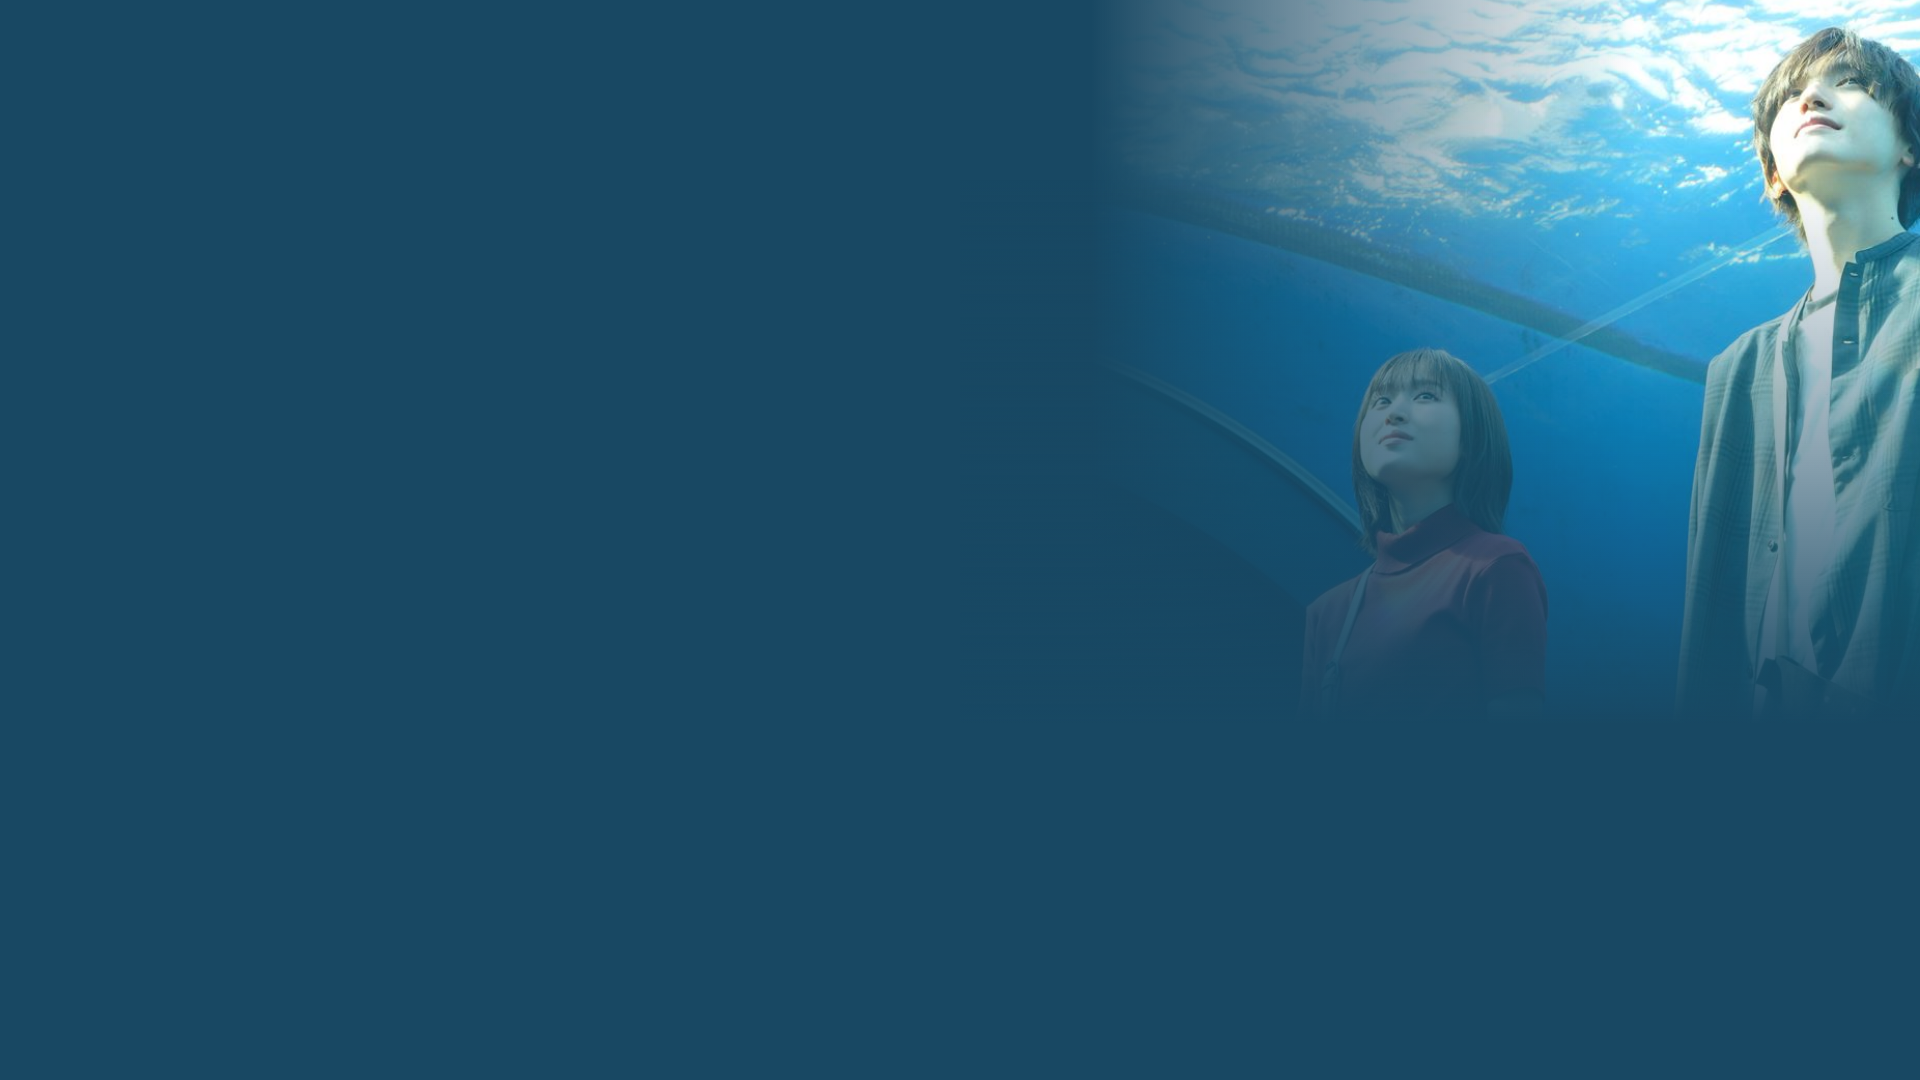
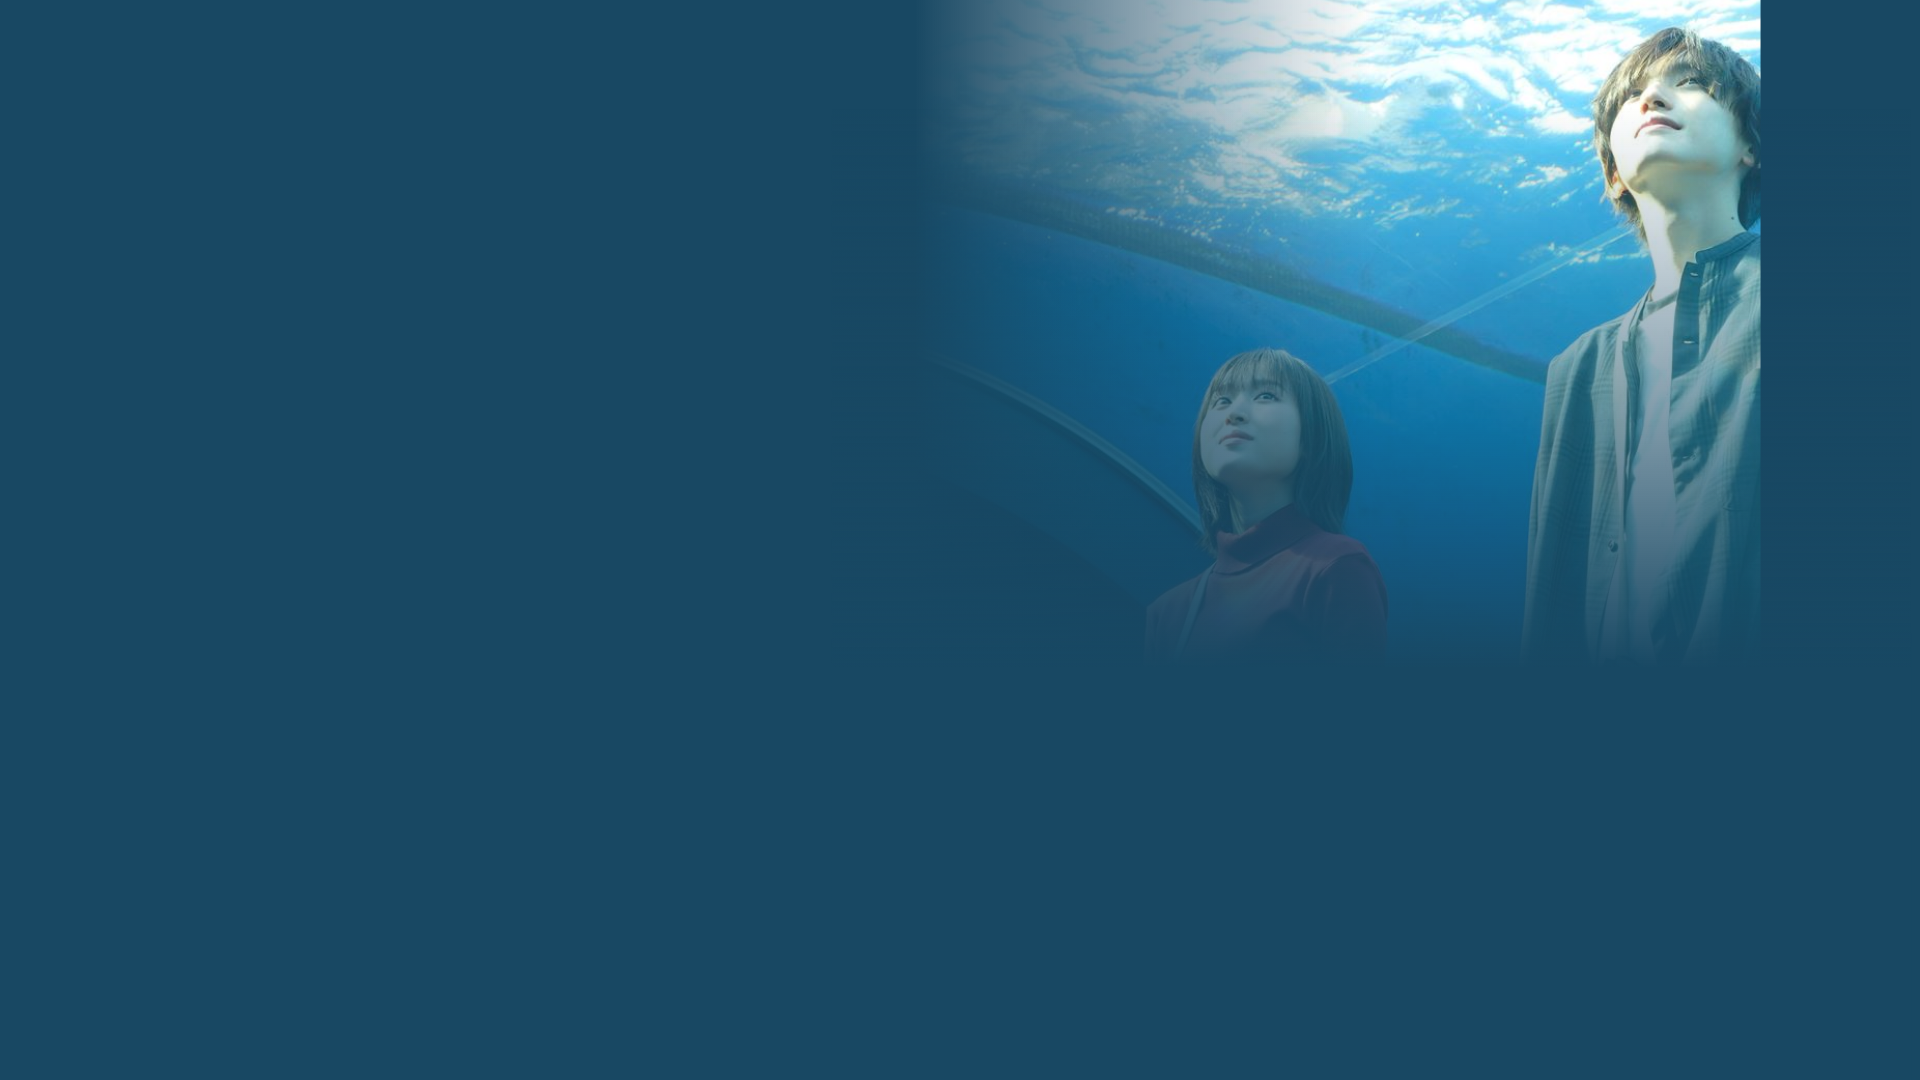
scenes

Changed region(s): [[0.5, 0.0, 1.0, 0.6111]]

diff --git a/evenIf.css b/evenIf.css
@@ -286,3 +286,62 @@ nav a {
   align-items: center;       /* center horizontally */
   height: 100%;              /* <-- take full height of grid cell */
 }
+
+.scenes {
+  display: flex;
+  justify-content: center;
+  align-items: center;
+  flex-direction: column;
+}
+
+.scenes h2 {
+  justify-self: center;
+  font-family: "Noto Sans KR", sans-serif;
+  font-optical-sizing: auto;
+  color: #ccc;
+  font-size: 1rem;
+  font-weight: bold;
+}
+
+.wide-v-arrow {
+  position: relative;
+  width: 30px;
+  height: 10px;
+  margin: 0px auto;
+  }
+        
+.wide-v-arrow::before, .wide-v-arrow::after {
+  content: "";
+  position: absolute;
+  top: 0;
+  width: 50%;
+  height: 100%;
+  border-bottom: 4px solid #ccc;
+  }
+        
+  .wide-v-arrow::before {
+    left: 0;
+    transform: skewY(15deg);
+    transform-origin: bottom right;
+  }
+        
+.wide-v-arrow::after {
+  right: 0;
+  transform: skewY(-15deg);
+  transform-origin: bottom left;
+}
+
+.scenes-grid {
+  display: grid;
+  grid-template-columns: 1fr 1fr 1fr 1fr;
+  gap: 15px;
+  padding:7vw;
+}
+
+.scenes-grid img {
+  width: 100%;
+  aspect-ratio: 16 / 9;  /* change ratio here */
+  border: 3px solid #ccc;
+  border-radius: 8px;
+  object-fit: cover;
+}

diff --git a/evenIf.html b/evenIf.html
@@ -70,7 +70,18 @@
             </div>
         </section>
         <section class="scenes">
-            
+            <h2>SCENE</h2>
+            <div class="wide-v-arrow"></div>
+            <div class="scenes-grid">
+                <img src="evenIf1.png" alt="Scene 1">
+                <img src="evenIf2.png" alt="Scene 2">
+                <img src="evenIf3.png" alt="Scene 3">
+                <img src="evenIf4.jpg" alt="Scene 4">
+                <img src="evenIf5.jpg" alt="Scene 5">
+                <img src="evenIf6.jpg" alt="Scene 6">
+                <img src="evenIf7.jpg" alt="Scene 7">
+                <img src="evenIf8.jpg" alt="Scene 8">
+            </div>
         </section>
     </main>
 </body>
